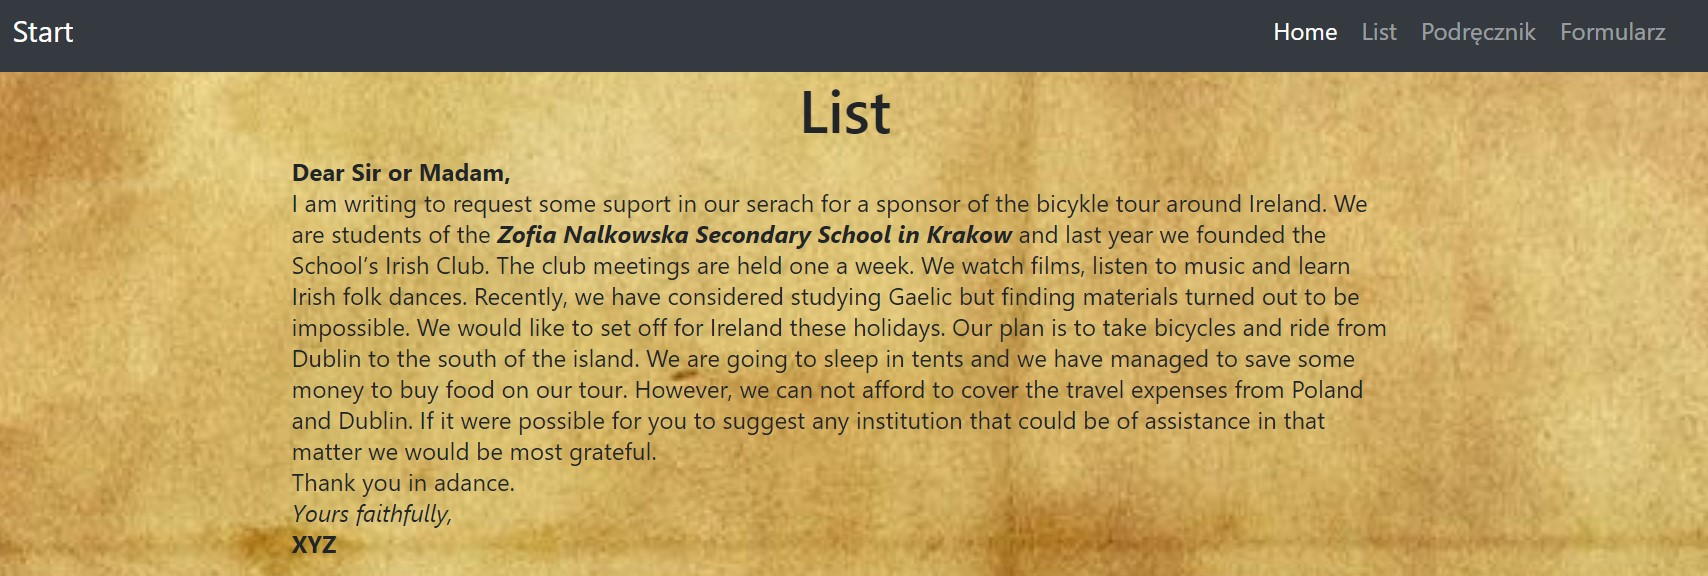
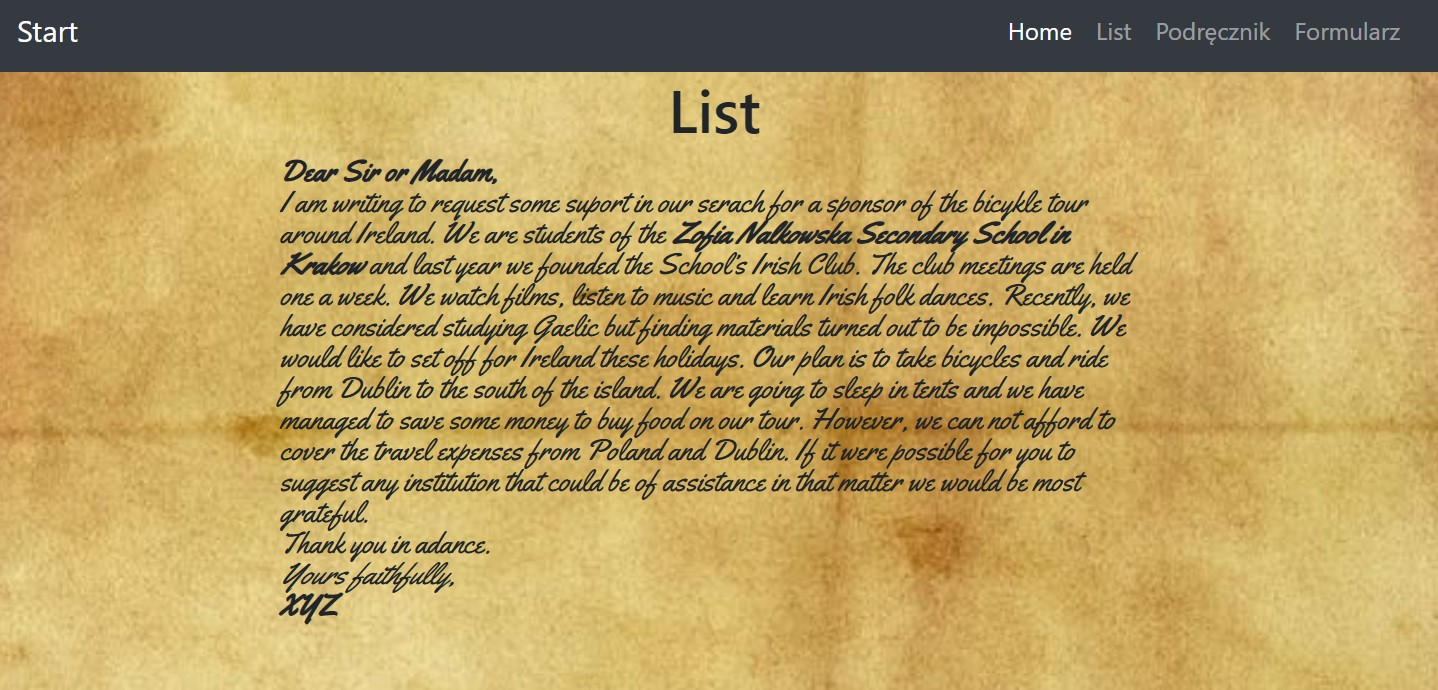
Update list.html
Zmiana czcionki listu na czcionkę online

diff --git a/Lab1/Assets/list.css b/Lab1/Assets/list.css
@@ -1,5 +1,8 @@
 p{
     text-align: left;
+    font-family: 'Yellowtail', cursive;
+    font-size: 20px;
+    margin-bottom: 5px;
 }
 
 h1{
@@ -16,8 +19,4 @@ h1{
 body{
     background-image: url("Graphic/Pergamin.jpg");
     background-size: 100%;
-}
-
-p{
-    margin-bottom: 5px;
 }

diff --git a/Lab1/list.html b/Lab1/list.html
@@ -12,6 +12,7 @@
 
   <!-- Bootstrap core CSS -->
   <link href="vendor/bootstrap/css/bootstrap.min.css" rel="stylesheet">
+  <link href="https://fonts.googleapis.com/css2?family=Yellowtail&display=swap" rel="stylesheet">
   <link href="Assets/list.css" rel="stylesheet">
   
 </head>
